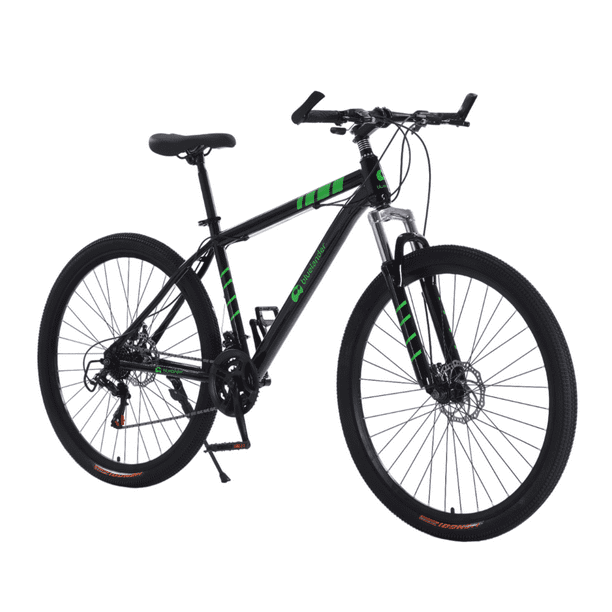
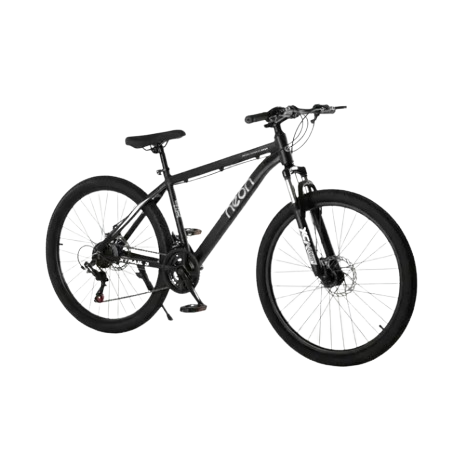
Carrusel mejorado

Changed region(s): [[0.0602, 0.1522, 0.9634, 0.913]]

diff --git a/landing.html b/landing.html
@@ -60,60 +60,225 @@
       <div class="col-md-8 p-md-4">
         <h2 class="text-center fw-bold" style="color: #1565C0; font-size: 40px; margin-bottom: 20px;">Acerca de nosotros</h2>
         <p style="font-size: 18px; color: #555; line-height: 1.6; text-align: justify;">
-          En <strong>Pedal X</strong>, compartimos tu pasión por el ciclismo. Con más de 40 años de experiencia en México, nos hemos dedicado a ofrecer soluciones confiables y de la más alta calidad para ciclistas de todos los niveles.
+          En <strong>Pedal X</strong>, compartimos tu pasión por el ciclismo. Con más de 8 años de experiencia en México, nos hemos dedicado a ofrecer soluciones confiables y de la más alta calidad para ciclistas de todos los niveles.
         </p>
         <p style="font-size: 18px; color: #555; line-height: 1.6; text-align: justify;">
-          Nuestro compromiso es acompañarte en cada ruta, asegurando que tengas la bicicleta, los accesorios y el mantenimiento perfectos para disfrutar de la libertad y emoción que solo el pedalear puede brindar.
+          Nuestro compromiso es acompañarte en todo momento, asegurando que tengas la bicicleta, los accesorios y el mantenimiento perfectos para disfrutar de la libertad y emoción que solo el pedalear puede brindar.
         </p>
       </div>
     </div>
   </div>
 
-      <div class="container mt-5 text-center">
-        <h2 class="fw-bold" style="color: #1565C0; font-size: 40px;">Conoce nuestros modelos</h2>
+      <div class="container mt-5 text-center" id="modelos">
+        <h2 class="fw-bold" style="color: #1565C0; font-size: 40px;">Conoce nuestros modelos más vendidos.</h2>
       </div>
 
-      <div class="container mt-5 mb-5">
-        <div id="carruselPedalX" class="carousel slide shadow rounded overflow-hidden" data-bs-ride="carousel">
-          <div class="carousel-indicators">
-            <button type="button" data-bs-target="#carruselPedalX" data-bs-slide-to="0" class="active" aria-current="true" aria-label="Slide 1"></button>
-            <button type="button" data-bs-target="#carruselPedalX" data-bs-slide-to="1" aria-label="Slide 2"></button>
-            <button type="button" data-bs-target="#carruselPedalX" data-bs-slide-to="2" aria-label="Slide 3"></button>
-          </div>
-          <div class="carousel-inner">
-            <div class="carousel-item active" data-bs-interval="4000">
-              <img src="https://images.unsplash.com/photo-1485965120184-e220f721d03e?q=80&w=2070&auto=format&fit=crop" class="d-block w-100" style="height: 400px; object-fit: cover; object-position: center;" alt="Bicicleta de montaña">
-              <div class="carousel-caption d-none d-md-block bg-dark bg-opacity-50 text-white rounded p-2 mb-4">
-                <h5>Domina cualquier terreno</h5>
-                <p>Encuentra la bicicleta de montaña perfecta para tus aventuras más extremas.</p>
-              </div>
-            </div>
-            <div class="carousel-item" data-bs-interval="4000">
-              <img src="https://images.unsplash.com/photo-1532298229144-0ec0c57515c7?q=80&w=2022&auto=format&fit=crop" class="d-block w-100" style="height: 400px; object-fit: cover;" alt="Bicicleta de ruta">
-              <div class="carousel-caption d-none d-md-block bg-dark bg-opacity-50 text-white rounded p-2 mb-4">
-                <h5>Velocidad y Aerodinámica</h5>
-                <p>Conoce nuestros modelos de ruta diseñados para el máximo rendimiento.</p>
-              </div>
-            </div>
-            <div class="carousel-item" data-bs-interval="4000">
-              <img src="https://images.unsplash.com/photo-1576435728678-68d0fbf94e91?q=80&w=2148&auto=format&fit=crop" class="d-block w-100" style="height: 400px; object-fit: cover;" alt="Accesorios para bicicleta">
-              <div class="carousel-caption d-none d-md-block bg-dark bg-opacity-50 text-white rounded p-2 mb-4">
-                <h5>Equípate como un profesional</h5>
-                <p>Descubre nuestra selección de accesorios y refacciones de primera calidad.</p>
-              </div>
+<div class="container-fluid px-4 mt-4 mb-5">
+  <div
+    id="carruselPedalX"
+    class="carousel slide shadow rounded overflow-hidden"
+    data-bs-ride="carousel"
+  >
+    <div class="carousel-indicators">
+      <button type="button" data-bs-target="#carruselPedalX" data-bs-slide-to="0" class="active" aria-label="Ruta"></button>
+      <button type="button" data-bs-target="#carruselPedalX" data-bs-slide-to="1" aria-label="Montaña"></button>
+      <button type="button" data-bs-target="#carruselPedalX" data-bs-slide-to="2" aria-label="Urbana"></button>
+      <button type="button" data-bs-target="#carruselPedalX" data-bs-slide-to="3" aria-label="Carga"></button>
+      <button type="button" data-bs-target="#carruselPedalX" data-bs-slide-to="4" aria-label="Eléctrica"></button>
+      <button type="button" data-bs-target="#carruselPedalX" data-bs-slide-to="5" aria-label="Infantil"></button>
+    </div>
+    <div class="carousel-inner">
+      <div class="carousel-item active">
+        <div class="row g-0">
+          <div class="col-md-7 bg-white">
+            <div class="ratio ratio-21x9">
+              <img
+                src="img/ruta.png"
+                class="w-100 h-100 object-fit-contain"
+                alt="Bicicleta de ruta"
+              >
             </div>
           </div>
-          <button class="carousel-control-prev" type="button" data-bs-target="#carruselPedalX" data-bs-slide="prev">
-            <span class="carousel-control-prev-icon" aria-hidden="true"></span>
-            <span class="visually-hidden">Anterior</span>
-          </button>
-          <button class="carousel-control-next" type="button" data-bs-target="#carruselPedalX" data-bs-slide="next">
-            <span class="carousel-control-next-icon" aria-hidden="true"></span>
-            <span class="visually-hidden">Siguiente</span>
-          </button>
+          <div
+            class="col-md-5 d-flex flex-column justify-content-center text-white p-5"
+            style="background-color: #1565C0;"
+          >
+            <p class="fw-bold mb-2" style="color: #FFD700;">
+              BICICLETA DE RUTA
+            </p>
+            <h3 class="display-6 fw-bold mb-3">Scott Speedtester Gravel 10</h3>
+            <p class="fs-5">
+              Diseñada para alcanzar mayor velocidad sobre pavimento.
+              Cuenta con ruedas delgadas y manubrio curvo para recorrer
+              largas distancias.
+            </p>
+          </div>
+        </div>
+      </div>
+      <div class="carousel-item">
+        <div class="row g-0">
+          <div class="col-md-7 bg-white">
+            <div class="ratio ratio-21x9">
+              <img
+                src="img/montaña.png"
+                class="w-100 h-100 object-fit-contain"
+                alt="Bicicleta de montaña"
+              >
+            </div>
+          </div>
+          <div
+            class="col-md-5 d-flex flex-column justify-content-center text-white p-5"
+            style="background-color: #1565C0;"
+          >
+            <p class="fw-bold mb-2" style="color: #FFD700;">
+              BICICLETA DE MONTAÑA
+            </p>
+            <h3 class="display-6 fw-bold mb-3">Neon Xtrail</h3>
+            <p class="fs-5">
+              Preparada para terracería, piedras y caminos difíciles.
+              Tiene suspensión y llantas anchas con tacos para mejorar
+              el control y la estabilidad.
+            </p>
+          </div>
+
         </div>
       </div>
 
+      <div class="carousel-item">
+        <div class="row g-0">
+
+          <div class="col-md-7 bg-white">
+            <div class="ratio ratio-21x9">
+              <img
+                src="img/urbana.png"
+                class="w-100 h-100 object-fit-contain"
+                alt="Bicicleta urbana"
+              >
+            </div>
+          </div>
+
+          <div
+            class="col-md-5 d-flex flex-column justify-content-center text-white p-5"
+            style="background-color: #1565C0;"
+          >
+            <p class="fw-bold mb-2" style="color: #FFD700;">
+              BICICLETA URBANA
+            </p>
+            <h3 class="display-6 fw-bold mb-3"> Voltbull F1</h3>
+            <p class="fs-5">
+              Ideal para trasladarse al trabajo o pasear por la ciudad.
+              Ofrece una posición recta al manejar y está enfocada en
+              la comodidad.
+            </p>
+          </div>
+        </div>
+      </div>
+
+      <div class="carousel-item">
+        <div class="row g-0">
+
+          <div class="col-md-7 bg-white">
+            <div class="ratio ratio-21x9">
+              <img
+                src="img/carga.jpeg"
+                class="w-100 h-100 object-fit-contain"
+                alt="Bicicleta de carga">
+            </div>
+          </div>
+
+          <div
+            class="col-md-5 d-flex flex-column justify-content-center text-white p-5"
+            style="background-color: #1565C0;"
+          >
+            <p class="fw-bold mb-2" style="color: #FFD700;">
+              BICICLETA DE CARGA
+            </p>
+            <h3 class="display-6 fw-bold mb-3">Nilox C1 Cargo Light</h3>
+            <p class="fs-5">
+              Diseñada para transportar compras, paquetes u otros
+              objetos. Es una opción práctica para recorridos y
+              actividades dentro de la ciudad.
+            </p>
+          </div>
+        </div>
+      </div>
+
+      <div class="carousel-item">
+        <div class="row g-0">
+          <div class="col-md-7 bg-white">
+            <div class="ratio ratio-21x9">
+              <img
+                src="img/electrica.jpeg"
+                class="w-100 h-100 object-fit-contain"
+                alt="Bicicleta eléctrica"
+              >
+            </div>
+          </div>
+          <div
+            class="col-md-5 d-flex flex-column justify-content-center text-white p-5"
+            style="background-color: #1565C0;"
+          >
+            <p class="fw-bold mb-2" style="color: #FFD700;">
+              BICICLETA ELÉCTRICA
+            </p>
+            <h3 class="display-6 fw-bold mb-3">Velotric Discover 2</h3>
+            <p class="fs-5">
+              Cuenta con un motor que ayuda durante el pedaleo.
+              Es adecuada para trayectos largos, pendientes o personas
+              que buscan trasladarse con menor esfuerzo.
+            </p>
+          </div>
+        </div>
+      </div>
+
+      <div class="carousel-item">
+        <div class="row g-0">
+          <div class="col-md-7 bg-white">
+            <div class="ratio ratio-21x9">
+              <img
+                src="img/infantil.png"
+                class="w-100 h-100 object-fit-contain"
+                alt="Bicicleta infantil"
+              >
+            </div>
+          </div>
+          <div
+            class="col-md-5 d-flex flex-column justify-content-center text-white p-5"
+            style="background-color: #1565C0;"
+          >
+            <p class="fw-bold mb-2" style="color: #FFD700;">
+              BICICLETA INFANTIL
+            </p>
+            <h3 class="display-6 fw-bold mb-3">Strider 12 Sport</h3>
+            <p class="fs-5">
+              Modelo pequeño y seguro para que los niños comiencen
+              a practicar ciclismo. Su tamaño facilita el control,
+              el equilibrio y el aprendizaje.
+            </p>
+          </div>
+        </div>
+      </div>
+    </div>
+    <button
+      class="carousel-control-prev"
+      type="button"
+      data-bs-target="#carruselPedalX"
+      data-bs-slide="prev"
+    >
+      <span class="carousel-control-prev-icon" aria-hidden="true"></span>
+      <span class="visually-hidden">Anterior</span>
+    </button>
+    <button
+      class="carousel-control-next"
+      type="button"
+      data-bs-target="#carruselPedalX"
+      data-bs-slide="next"
+    >
+      <span class="carousel-control-next-icon" aria-hidden="true"></span>
+      <span class="visually-hidden">Siguiente</span>
+    </button>
+  </div>
+</div>
       <div class="container mt-5 mb-5" id="servicios">
 
         <div class="text-center mb-5">
@@ -177,7 +342,7 @@
           </div>
           <div class="mb-3">
             <label for="correo" class="form-label fw-bold" style="color: #1565C0;">Correo electrónico</label>
-            <input type="email" class="form-control" id="correo" placeholder="tu@correo.com" required>
+            <input type="email" class="form-control" id="correo" placeholder="correo@gmail.com" required>
           </div>
           <div class="mb-4">
             <label for="mensaje" class="form-label fw-bold" style="color: #1565C0;">Mensaje</label>
@@ -219,7 +384,6 @@
       </div>
       <div class="footer-columna">
         <h3>Ubicación</h3>
-        <p>Blvd. Bicicleta 254</p>
         <p>Manzanillo, Colima, México</p>
       </div>
     </div>
